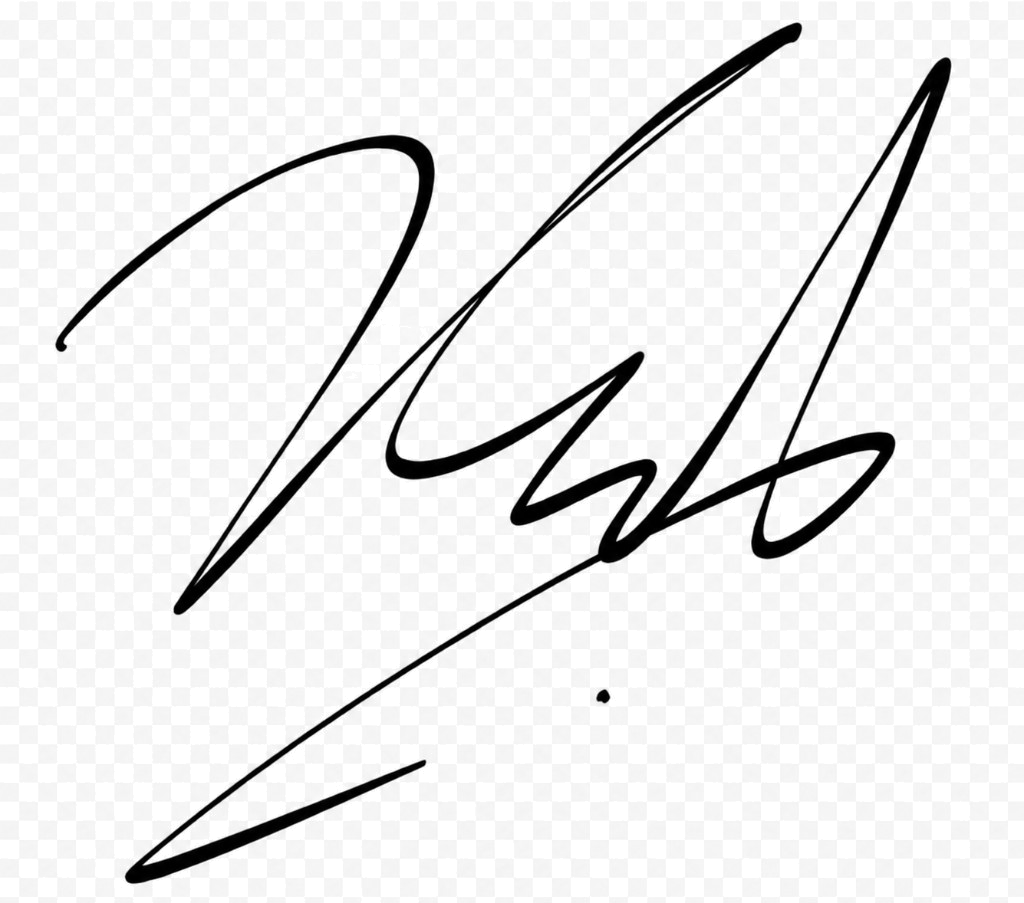
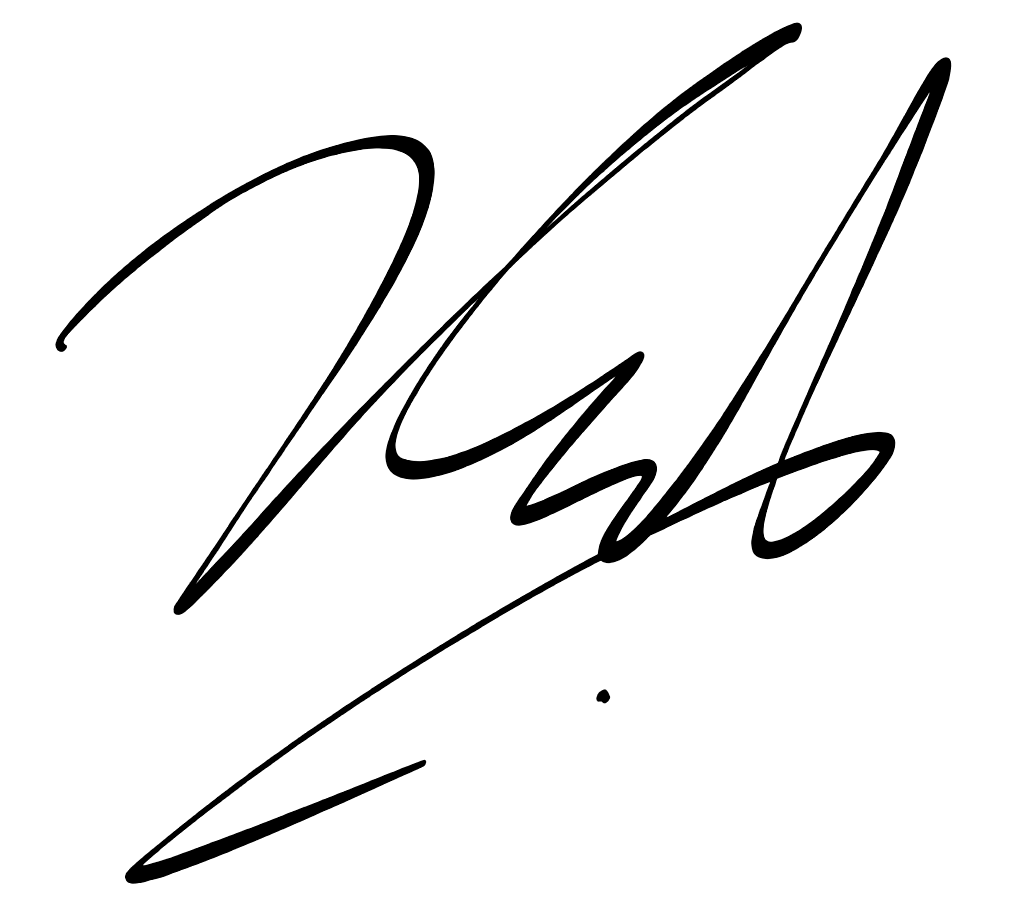
Default to dark theme, fall '26 copy, larger zoom, cleaner signature key
- Re-key signature from original source with threshold ramp + opaque ink;
  removes faint compression haze that showed against dark backgrounds.
- Pre-hydration script defaults to dark unless localStorage is 'light'.
- Bump body to 18px, hero to 2.15-2.45rem, signature to 7-9rem, chip to 40px,
  section title to 1.2rem, container to max-w-[44rem]; tighten copy: fall '26
  internship without location/remote line.

diff --git a/src/app/page.tsx b/src/app/page.tsx
@@ -31,19 +31,19 @@ function ExternalLink({
 
 export default function Home() {
   return (
-    <div className="min-h-screen px-6 pb-32 pt-14 sm:px-10 sm:pb-40 sm:pt-20">
-      <div className="fixed right-5 top-5 z-40 sm:right-7 sm:top-7">
+    <div className="min-h-screen px-7 pb-36 pt-16 sm:px-12 sm:pb-44 sm:pt-24">
+      <div className="fixed right-5 top-5 z-40 sm:right-8 sm:top-8">
         <ThemeToggle />
       </div>
 
-      <article className="animate-enter mx-auto max-w-2xl text-pretty">
+      <article className="animate-enter mx-auto max-w-[44rem] text-pretty">
         <section aria-label="Introduction">
           <div className="flex flex-col gap-8 sm:flex-row sm:items-start sm:justify-between sm:gap-12">
             <div className="order-2 min-w-0 flex-1 space-y-7 sm:order-1">
-              <p className="text-fg text-[1.85rem] font-medium leading-tight tracking-tight sm:text-[2rem]">
+              <p className="text-fg text-[2.15rem] font-medium leading-tight tracking-tight sm:text-[2.45rem]">
                 hey, I&apos;m vishnu
               </p>
-              <div className="text-body space-y-4 text-[17px] leading-relaxed">
+              <div className="text-body space-y-5 text-[18px] leading-relaxed">
                 <p>
                   management engineering @{" "}
                   <ExternalLink href={UW}>university of waterloo</ExternalLink>
@@ -56,9 +56,8 @@ export default function Home() {
                 </p>
                 <p>
                   currently looking for a{" "}
-                  <span className="text-fg">summer &apos;26 swe internship</span>
-                  {" — "}backend, cloud, or applied ai. open to remote and
-                  toronto/waterloo.
+                  <span className="text-fg">fall &apos;26 swe internship</span>
+                  {" — "}backend, cloud, or applied ai.
                 </p>
                 <p>
                   winter &apos;26 @{" "}
@@ -79,7 +78,7 @@ export default function Home() {
               alt=""
               width={1024}
               height={903}
-              className="order-1 h-auto w-[6rem] shrink-0 object-contain object-left dark:invert dark:opacity-90 sm:order-2 sm:mt-1 sm:w-[7.5rem]"
+              className="order-1 h-auto w-[7rem] shrink-0 object-contain object-left dark:invert sm:order-2 sm:mt-1 sm:w-[9rem]"
               priority
             />
           </div>
@@ -87,7 +86,7 @@ export default function Home() {
 
         <section id="built" className="section">
           <h3 className="section-title">what i&apos;ve built</h3>
-          <ul className="list-arrow text-body space-y-4 text-[17px] leading-snug">
+          <ul className="list-arrow text-body space-y-5 text-[18px] leading-snug">
             {projects.map((p) => (
               <li key={p.title} className="min-w-0">
                 <div className="flex flex-col gap-1 sm:flex-row sm:flex-wrap sm:items-baseline sm:gap-x-1.5">
@@ -114,7 +113,7 @@ export default function Home() {
 
         <section id="previously" className="section">
           <h3 className="section-title">previously</h3>
-          <ul className="text-body space-y-5 text-[17px] leading-snug">
+          <ul className="text-body space-y-6 text-[18px] leading-snug">
             {experiences.map((exp) => (
               <li key={`${exp.company}-${exp.period}`} className="min-w-0">
                 <div className="flex flex-col gap-1 sm:flex-row sm:items-baseline sm:justify-between sm:gap-4">
@@ -132,7 +131,7 @@ export default function Home() {
                       <span>{exp.company.toLowerCase()}</span>
                     )}
                   </div>
-                  <span className="text-muted shrink-0 text-sm tabular-nums sm:text-[15px]">
+                  <span className="text-muted shrink-0 text-[14px] tabular-nums sm:text-[15.5px]">
                     {exp.period.toLowerCase()}
                   </span>
                 </div>
@@ -143,7 +142,7 @@ export default function Home() {
 
         <section id="stack" className="section">
           <h3 className="section-title">stack</h3>
-          <dl className="text-body space-y-4 text-[17px] leading-relaxed">
+          <dl className="text-body space-y-5 text-[18px] leading-relaxed">
             {(
               [
                 ["languages", skills.languages],
@@ -155,7 +154,7 @@ export default function Home() {
             ).map(([label, items]) => (
               <div
                 key={label}
-                className="grid grid-cols-1 gap-x-5 sm:grid-cols-[7rem_1fr]"
+                className="grid grid-cols-1 gap-x-6 sm:grid-cols-[7.5rem_1fr]"
               >
                 <dt className="text-muted">{label}</dt>
                 <dd className="break-words">{items.join(", ")}</dd>
@@ -166,7 +165,7 @@ export default function Home() {
 
         <section id="contact" className="section">
           <h3 className="section-title">say hi</h3>
-          <p className="text-body text-[17px] leading-relaxed">
+          <p className="text-body text-[18px] leading-relaxed">
             <a
               href={`mailto:${personalInfo.email}`}
               className="link-quiet text-fg font-medium"
@@ -185,9 +184,9 @@ export default function Home() {
           </p>
         </section>
 
-        <footer className="border-line-soft mt-16 border-t pt-10 sm:mt-20 sm:pt-12">
+        <footer className="border-line-soft mt-20 border-t pt-12 sm:mt-24 sm:pt-14">
           <SocialLinks />
-          <p className="text-soft mt-8 text-[13px]">
+          <p className="text-soft mt-9 text-[13.5px]">
             © {new Date().getFullYear()} {personalInfo.name.toLowerCase()}
           </p>
         </footer>

diff --git a/src/app/globals.css b/src/app/globals.css
@@ -134,12 +134,12 @@
     display: inline-flex;
     align-items: center;
     justify-content: center;
-    height: 36px;
-    width: 36px;
+    height: 40px;
+    width: 40px;
     border: 1px solid var(--line);
     background-color: var(--bg);
     color: var(--muted);
-    border-radius: 9px;
+    border-radius: 10px;
     transition:
       color 0.2s ease,
       background-color 0.2s ease,
@@ -182,10 +182,10 @@
   }
 
   .section-title {
-    margin-bottom: 1.5rem;
-    font-size: 1.05rem;
+    margin-bottom: 1.75rem;
+    font-size: 1.2rem;
     font-weight: 600;
-    letter-spacing: -0.01em;
+    letter-spacing: -0.015em;
     color: var(--fg);
   }
 }

diff --git a/src/app/layout.tsx b/src/app/layout.tsx
@@ -31,7 +31,7 @@ export const metadata: Metadata = {
   },
 };
 
-const themeInit = `(function(){try{var t=localStorage.getItem('theme');var m=window.matchMedia('(prefers-color-scheme: dark)').matches;if(t==='dark'||(!t&&m)){document.documentElement.classList.add('dark');}}catch(e){}})();`;
+const themeInit = `(function(){try{var t=localStorage.getItem('theme');if(t==='light'){return;}document.documentElement.classList.add('dark');}catch(e){document.documentElement.classList.add('dark');}})();`;
 
 export default function RootLayout({
   children,
